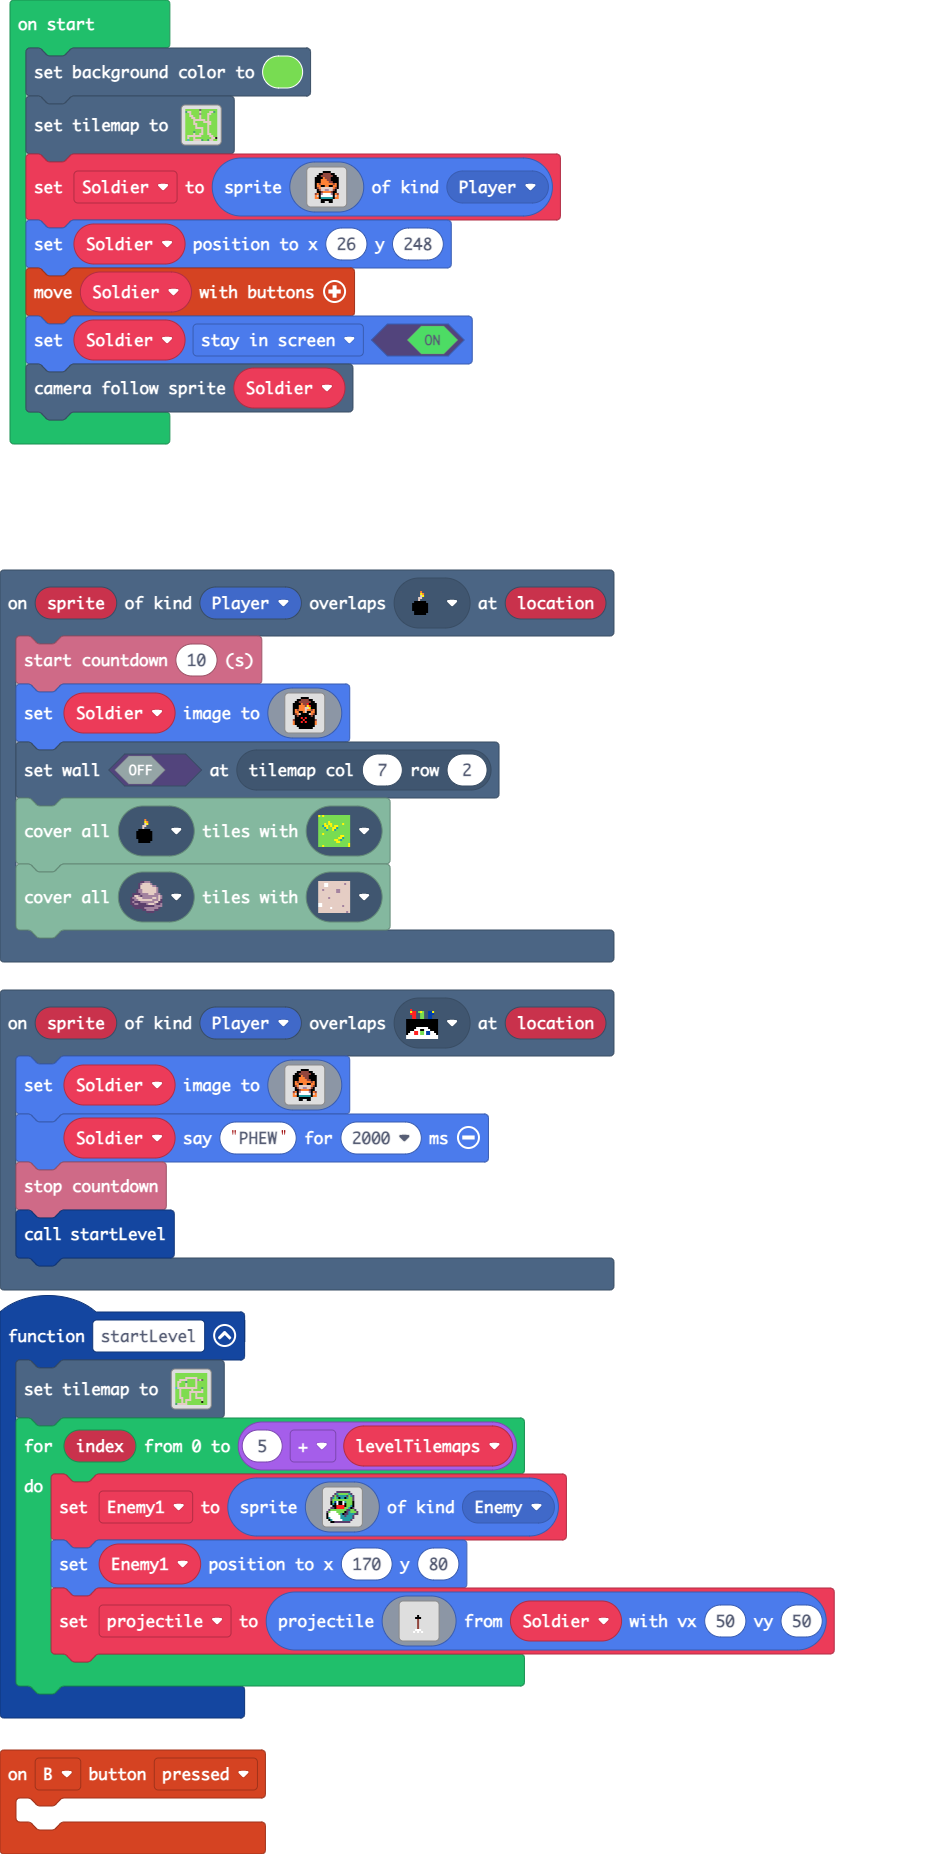
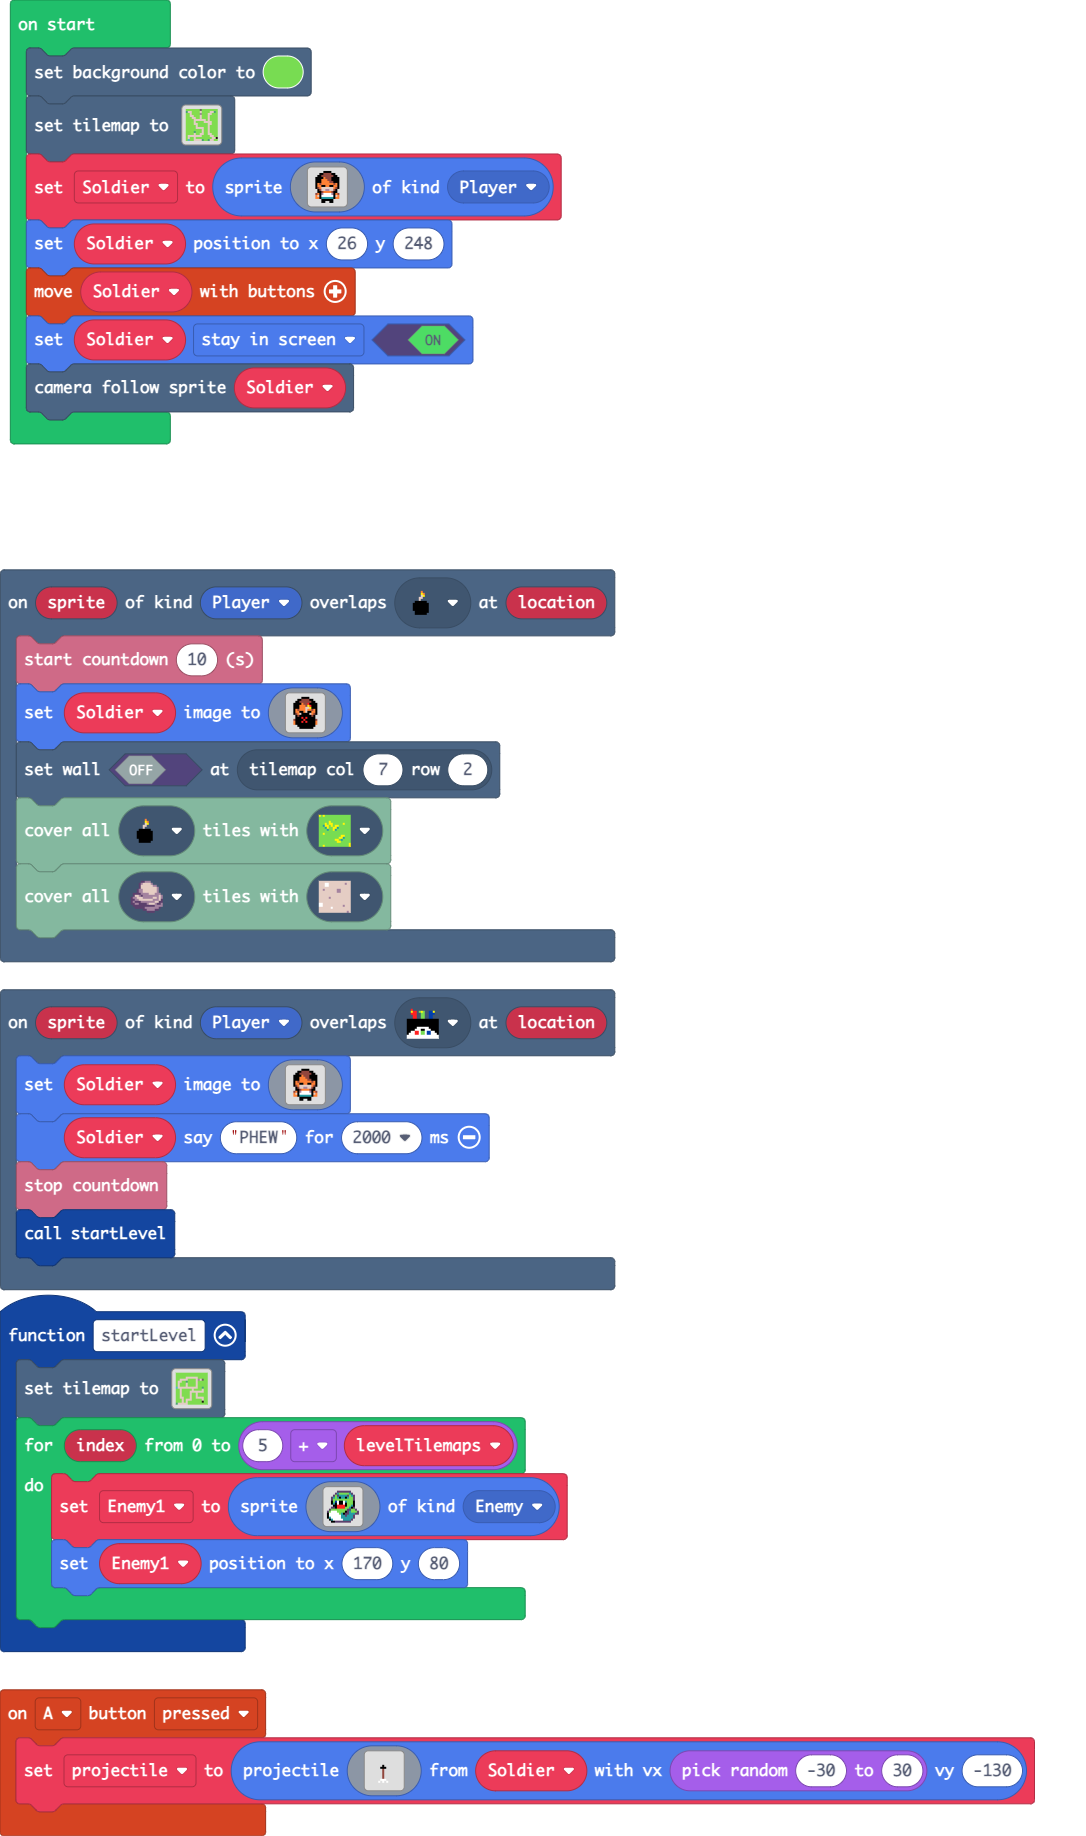
Arrow

Changed region(s): [[0.0, 0.2794, 0.9584, 1.0], [0.0, 0.0, 0.6183, 0.2484]]

diff --git a/main.ts b/main.ts
@@ -62,7 +62,7 @@ scene.onOverlapTile(SpriteKind.Player, assets.tile`tile1`, function (sprite, loc
         . . . f f f f f f . . . 
         . . . f f . . f f . . . 
         `)
-    Soldier.say("PHEW", 1000)
+    Soldier.say("PHEW", 2000)
     info.stopCountdown()
     startLevel()
 })
